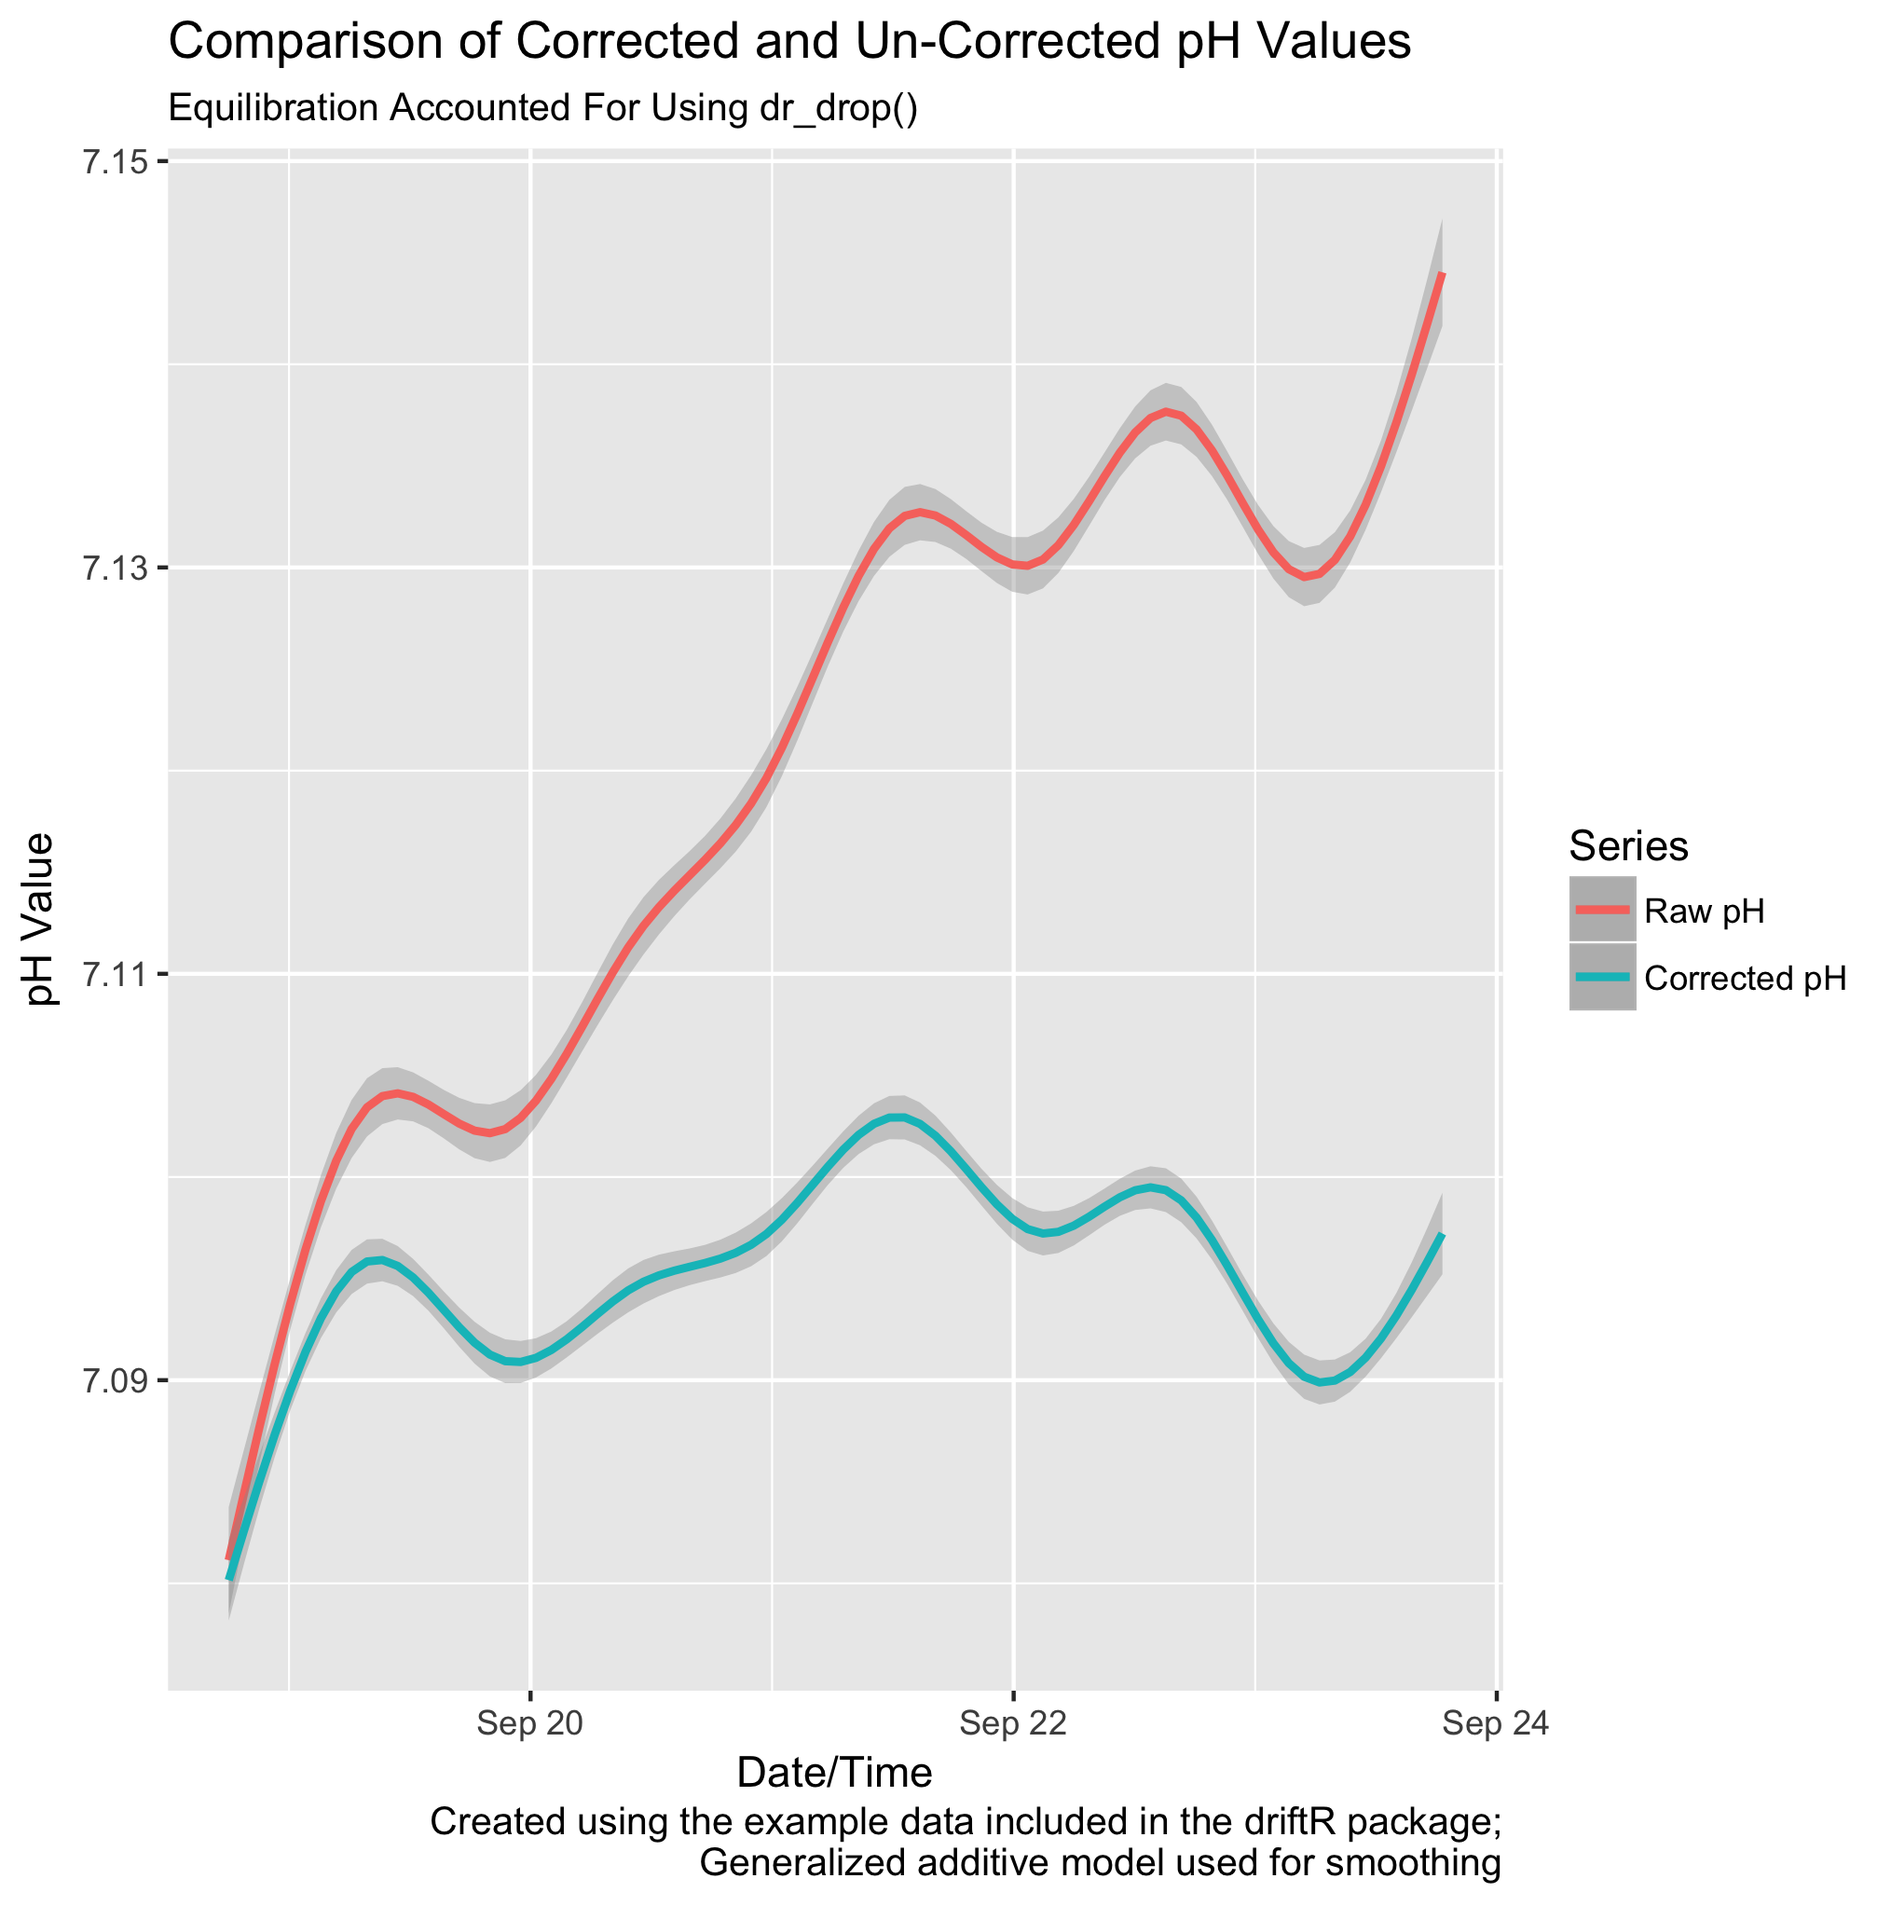
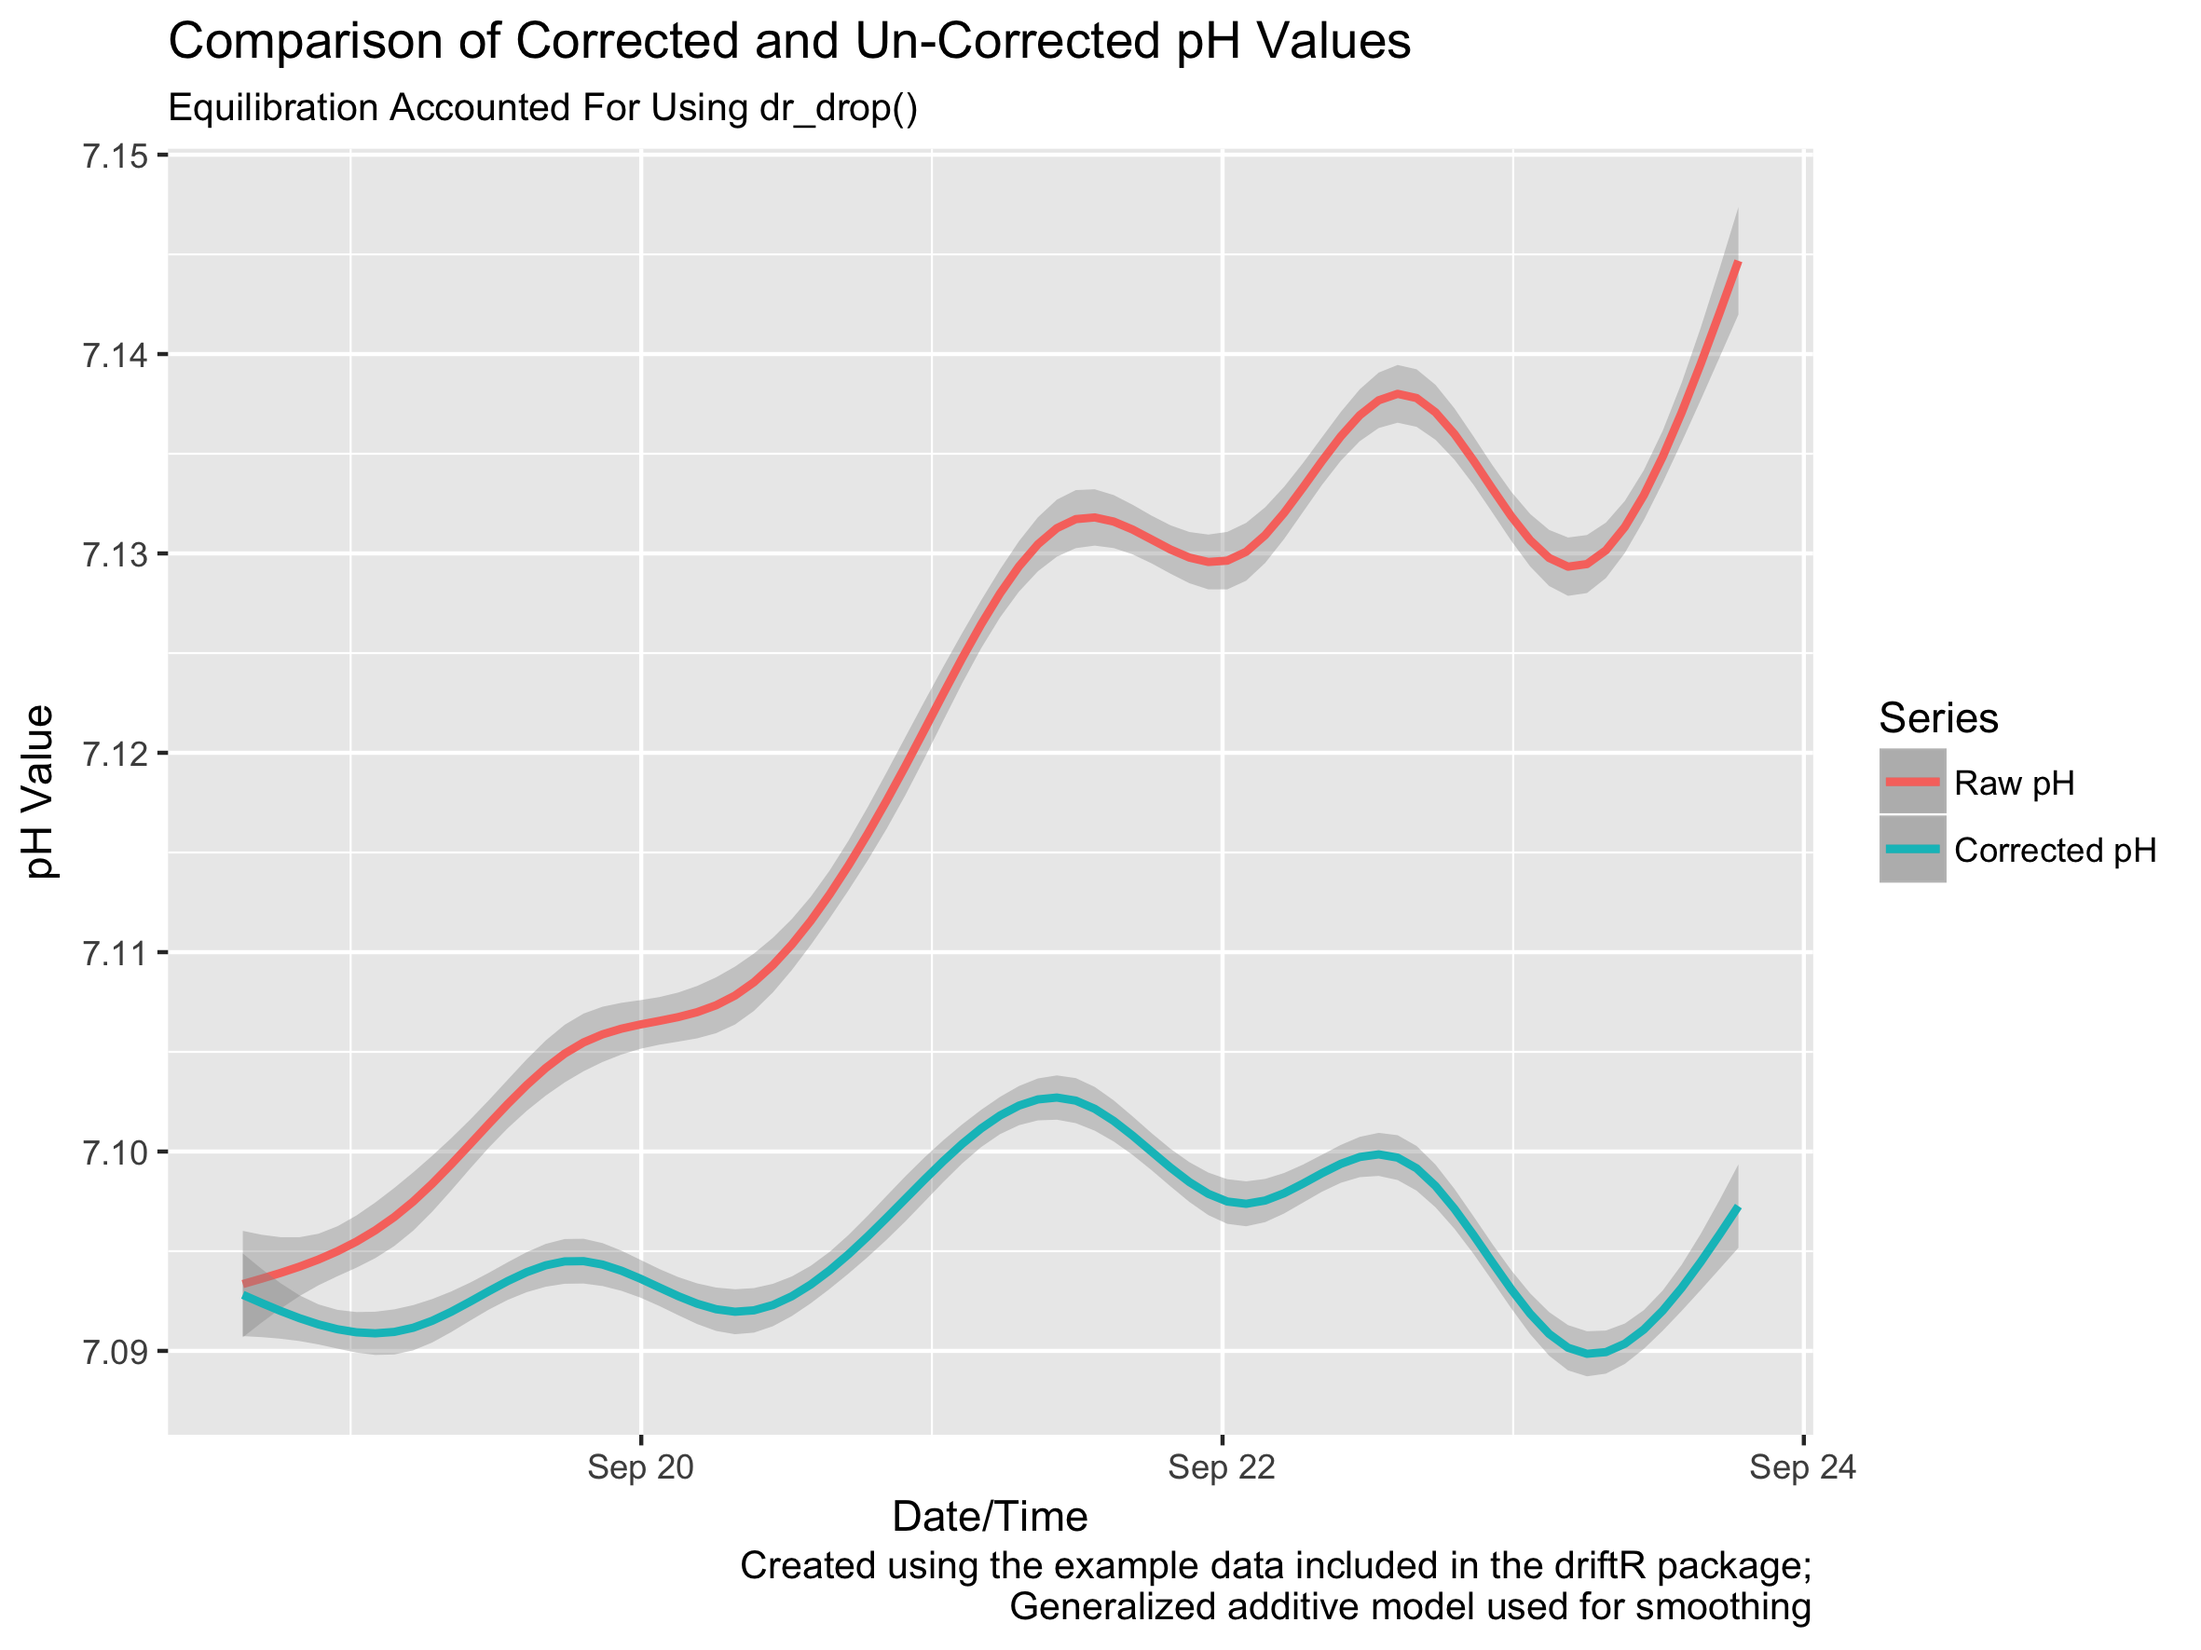
add drift and equilibration plots to README

diff --git a/README.md b/README.md
@@ -22,6 +22,14 @@ Background
 
 The `driftR` package implements a series of equations used in [Dr. Elizabeth Hasenmueller's](https://hasenmuellerlab.weebly.com) hydrology and geochemistry research. These equations correct continuous water-quality monitoring data for incramental drift that occurs over time. There are two forms of corrections included in the package - a one-point calibration and a two-point calibration. One-point and two-point callibration values are suited for different types of measurements. The package is currently written for the easiest use with YSI Sonde products.
 
+The figure below illustrates the difference in `pH` values between the raw data and the same data with the drift corrections implemented by `driftR` applied. There is a notable difference in the trend line between the raw data and the corrected data, which illustrates the importance of accounting for incramental drift.
+
+![](man/figures/pH_noDrop.png)
+
+The plot above also illustrates the importance of removing both the initial and the trailing observations in a given series of data. In this case, the initial observations are inaccurate due to recent equilibration of the instrument. The last few observations are inaccurate due to the removal of the instrument from the water for data download and equilibration. The figure below illustrates the impact of removing these observations on the data:
+
+![](man/figures/pH_Drop.png)
+
 Usage
 -----
 
